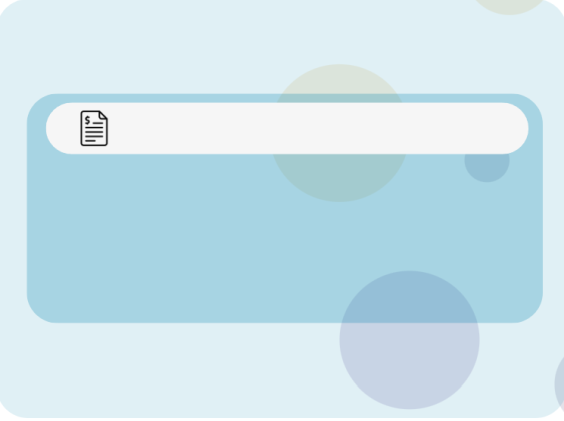
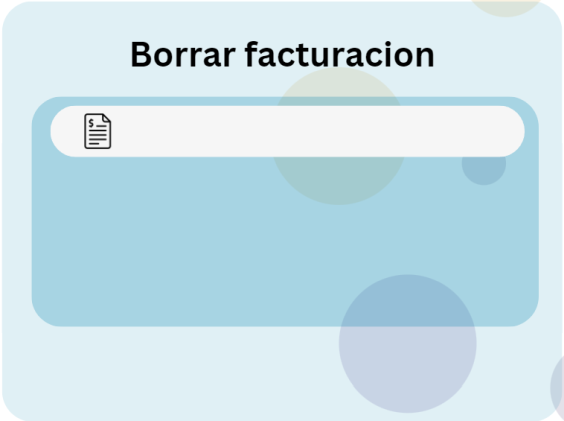
cambios en los dialogs
añadido etiquetas a los dialogs borrar. Mejorado el tamaño de borrar consulta. Cambiado aspecto crear y modificar consulta

diff --git a/dentiapp/src/Vista/CrearConsultaDialog.java b/dentiapp/src/Vista/CrearConsultaDialog.java
@@ -45,7 +45,8 @@ public class CrearConsultaDialog extends JDialog {
 	 * Create the dialog.
 	 */
 	public CrearConsultaDialog() {
-		setBounds(100, 100, 959, 578);
+		//setBounds(100, 100, 959, 578);
+		setBounds(100, 100, 781, 486);
 		getContentPane().setLayout(null);
 		contentPanel.setBounds(0, 0, 959, 556);
 		contentPanel.setBorder(new EmptyBorder(5, 5, 5, 5));
@@ -53,7 +54,7 @@ public class CrearConsultaDialog extends JDialog {
 		contentPanel.setLayout(null);
 		
 		JDateChooser dateChooser = new JDateChooser();
-		dateChooser.setBounds(385, 359, 231, 30);
+		dateChooser.setBounds(295, 288, 211, 29);
 		contentPanel.add(dateChooser);
 		
 		JButton btnAceptar = new JButton("Aceptar");
@@ -62,15 +63,15 @@ public class CrearConsultaDialog extends JDialog {
 		contentPanel.add(btnAceptar);
 		
 		JComboBox cmbPaciente = new JComboBox();
-		cmbPaciente.setBounds(85, 201, 341, 22);
+		cmbPaciente.setBounds(48, 161, 307, 22);
 		contentPanel.add(cmbPaciente);
 		
 		JComboBox cmbDoctor = new JComboBox();
-		cmbDoctor.setBounds(535, 201, 341, 22);
+		cmbDoctor.setBounds(412, 161, 293, 22);
 		contentPanel.add(cmbDoctor);
 		
 		JComboBox cmbTratamiento = new JComboBox();
-		cmbTratamiento.setBounds(76, 363, 245, 22);
+		cmbTratamiento.setBounds(48, 288, 211, 22);
 		contentPanel.add(cmbTratamiento);
 		
 		btnAceptar.addActionListener(new ActionListener() {
@@ -83,7 +84,7 @@ public class CrearConsultaDialog extends JDialog {
 		});
 		
 		JLabel lblNewLabel = new JLabel("");
-		lblNewLabel.setBounds(0, 0, 959, 556);
+		lblNewLabel.setBounds(0, 0, 959, 449);
 		lblNewLabel.setIcon(new ImageIcon(CrearConsultaDialog.class.getResource("/fotos/crear_consulta.PNG")));
 		contentPanel.add(lblNewLabel);
 		cmbPaciente.setModel(rellenarDatos("paciente","nombre",modeloDatos));

diff --git a/dentiapp/src/Vista/ModificarConsultaDialog.java b/dentiapp/src/Vista/ModificarConsultaDialog.java
@@ -59,7 +59,7 @@ public class ModificarConsultaDialog extends JDialog {
 		contentPanel.setLayout(null);
 
 		JButton btnModificarConsulta = new JButton("Actualizar");
-		btnModificarConsulta.setBounds(652, 415, 89, 23);
+		btnModificarConsulta.setBounds(606, 370, 106, 33);
 		contentPanel.add(btnModificarConsulta);
 
 		JDateChooser dateChooser = new JDateChooser();
@@ -69,16 +69,16 @@ public class ModificarConsultaDialog extends JDialog {
 
 			}
 		});
-		dateChooser.setBounds(60, 158, 185, 31);
+		dateChooser.setBounds(60, 149, 185, 42);
 		contentPanel.add(dateChooser);
 
 		txtDoctor = new JTextField();
-		txtDoctor.setBounds(364, 286, 86, 20);
+		txtDoctor.setBounds(299, 280, 198, 42);
 		contentPanel.add(txtDoctor);
 		txtDoctor.setColumns(10);
 
 		txtTratamiento = new JTextField();
-		txtTratamiento.setBounds(113, 286, 86, 20);
+		txtTratamiento.setBounds(60, 280, 198, 42);
 		contentPanel.add(txtTratamiento);
 		txtTratamiento.setColumns(10);
 
@@ -99,7 +99,7 @@ public class ModificarConsultaDialog extends JDialog {
 			}
 		});
 
-		comboBox.setBounds(446, 158, 169, 22);
+		comboBox.setBounds(417, 158, 295, 22);
 		contentPanel.add(comboBox);
 
 		JButton btnNewButton = new JButton("Buscar");
@@ -122,7 +122,7 @@ public class ModificarConsultaDialog extends JDialog {
 
 			}
 		});
-		btnNewButton.setBounds(255, 158, 89, 23);
+		btnNewButton.setBounds(256, 158, 100, 23);
 		contentPanel.add(btnNewButton);
 
 		JLabel lblFondo = new JLabel("");

diff --git a/dentiapp/src/Vista/BorrarConsultaDialog.java b/dentiapp/src/Vista/BorrarConsultaDialog.java
@@ -40,19 +40,20 @@ public class BorrarConsultaDialog extends JDialog {
 	 */
 	public BorrarConsultaDialog() {
 	
-		setBounds(100, 100, 575, 457);
+		//setBounds(100, 100, 575, 457);
+		setBounds(100, 100, 781, 486);
 		getContentPane().setLayout(new BorderLayout());
 		contentPanel.setBorder(new EmptyBorder(5, 5, 5, 5));
 		getContentPane().add(contentPanel, BorderLayout.CENTER);
 		contentPanel.setLayout(null);
 		
 		JComboBox comboBox = new JComboBox();
-		comboBox.setBounds(131, 124, 358, 22);
+		comboBox.setBounds(52, 161, 301, 22);
 		contentPanel.add(comboBox);
 		JLabel lblFondo = new JLabel("");
 		
 		lblFondo.setIcon(new ImageIcon(BorrarConsultaDialog.class.getResource("/fotos/borrar_consulta.PNG")));
-		lblFondo.setBounds(0, 0, 564, 421);
+		lblFondo.setBounds(0, 0, 765, 447);
 		contentPanel.add(lblFondo);
 		
 		
